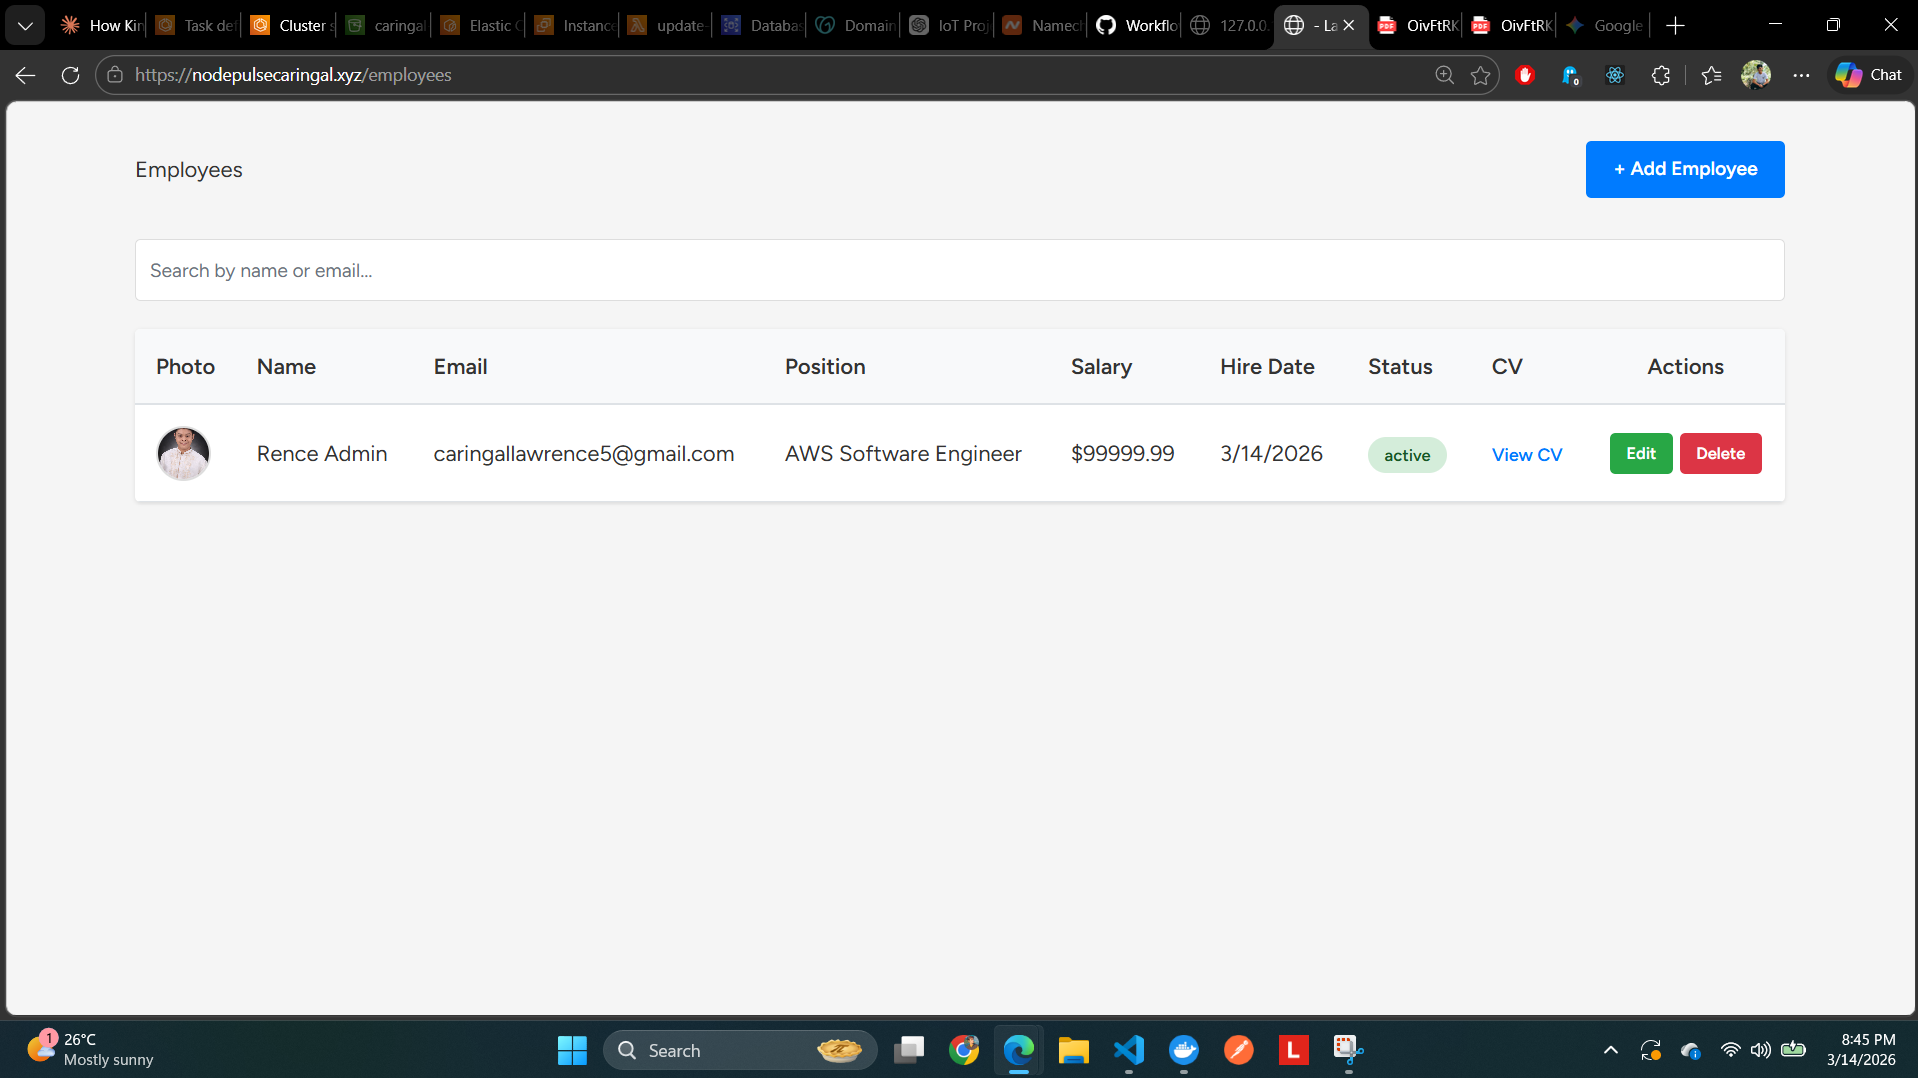
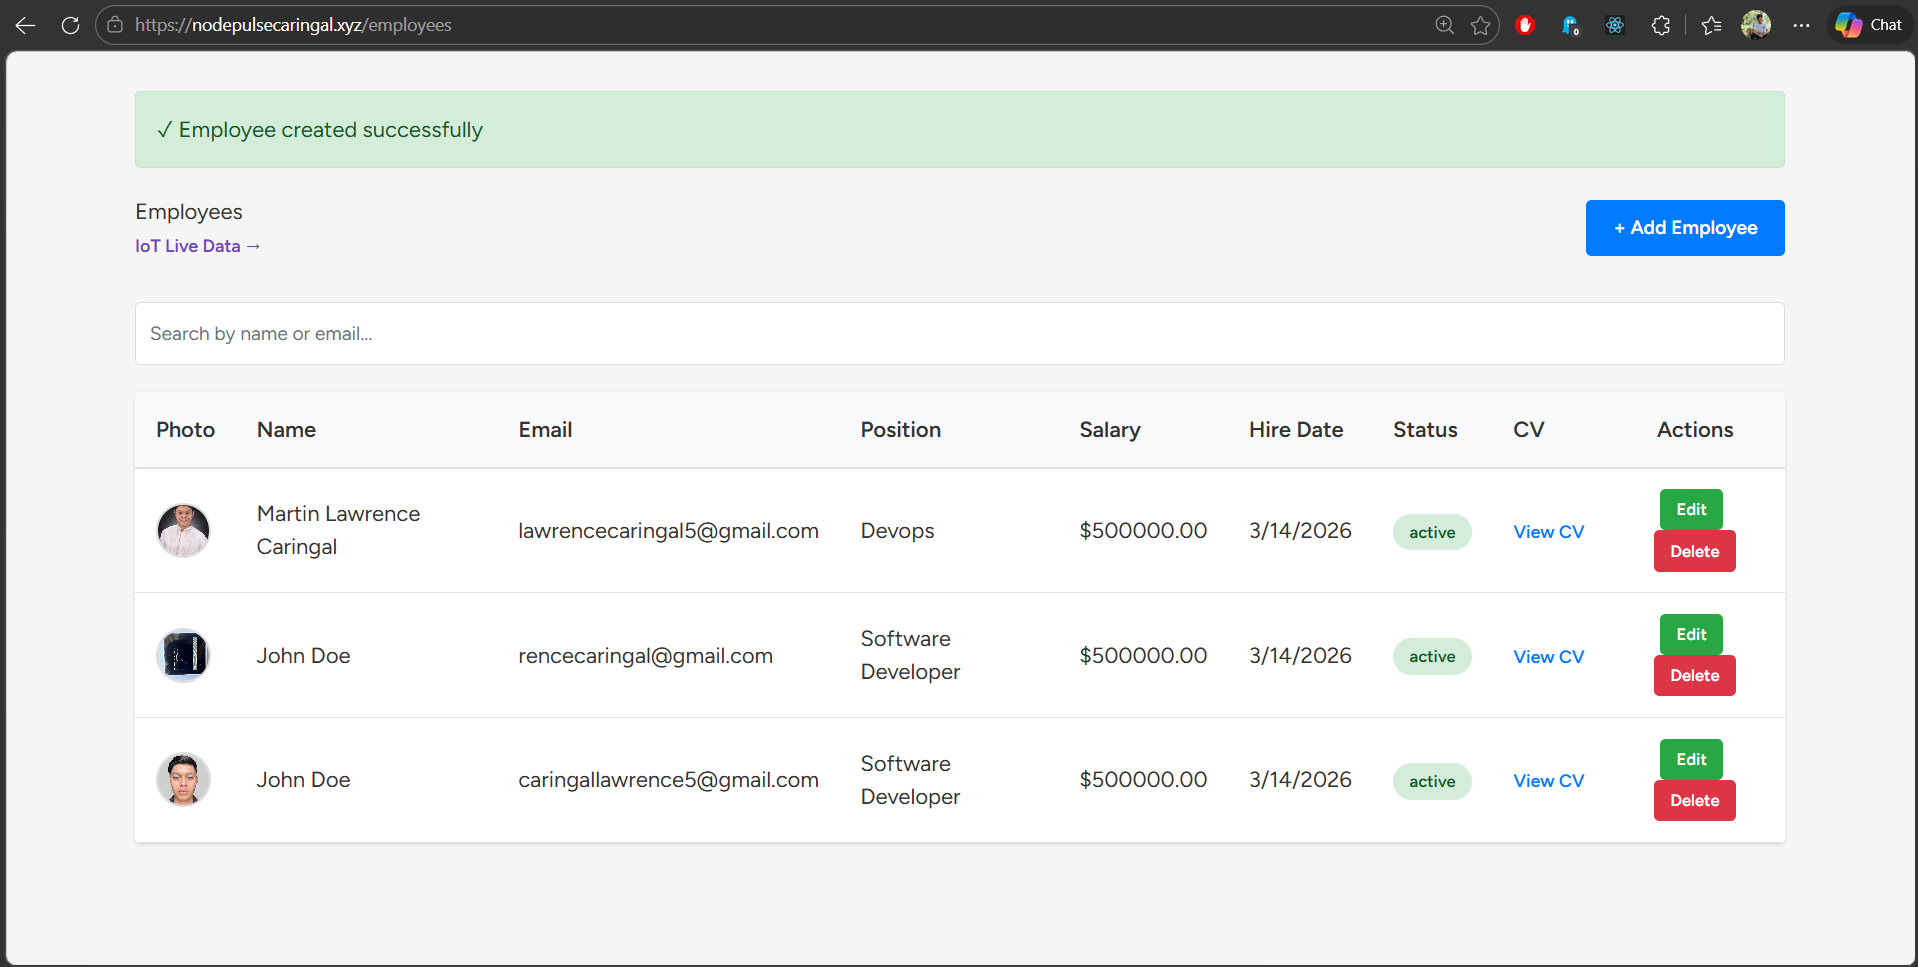
final

diff --git a/README.md b/README.md
@@ -30,6 +30,7 @@ Live at: **https://nodepulsecaringal.xyz**
 | Frontend           | React 18 + Inertia.js (SPA, no full-page reloads)                |
 | Database           | AWS RDS PostgreSQL 15 (t4g.micro, Graviton)                       |
 | File Storage       | AWS S3 Standard-IA + CloudFront CDN (OAC)                         |
+| Security           | AWS WAFv2 — OWASP Top 10, SQLi, Known Bad Inputs, rate limiting   |
 | CSS                | Tailwind CSS                                                      |
 | Containerization   | Docker — multi-stage (Node → Composer → PHP-FPM/Nginx/Supervisor) |
 | CI/CD              | GitHub Actions → ECR → EventBridge → Lambda → ECS                |
@@ -50,6 +51,8 @@ Live at: **https://nodepulsecaringal.xyz**
 - **Status badges** — active / inactive with colour coding
 - **Secure secrets** — APP_KEY and DB credentials injected at runtime from AWS Secrets Manager (never in the image or environment variables plaintext)
 - **IoT Live Data** — M5Stack Core 2 sends button press events via Kinesis → Lambda → PostgreSQL; React dashboard polls every 3s showing device, event type, button, battery, and timestamp
+- **Reset IoT Data** — one-click button to truncate IoT events table for a fresh slate
+- **WAF protection** — AWS WAFv2 on ALB: OWASP Top 10, SQLi, Known Bad Inputs, IP reputation, per-IP rate limiting (2000 req/5min)
 
 ---
 
@@ -64,6 +67,9 @@ Route53 (nodepulsecaringal.xyz)
    ▼
 Application Load Balancer (HTTPS 443, ACM cert)
    │  HTTP → HTTPS redirect
+   ▼
+AWS WAFv2 (Regional)
+   │  OWASP rules, SQLi, rate limit, IP reputation
    ▼
 ECS Service (awsvpc, 1 task)
    │
@@ -149,6 +155,7 @@ React IoT page (polls /iot-events every 3s)
 │   ├── eventbridge.tf       # ECR image push rule → Lambda target
 │   ├── cloudwatch.tf        # Log group + CloudWatch alarms (CPU, memory)
 │   ├── backup.tf            # AWS Backup plan (conditional on enable_backup)
+│   ├── waf.tf               # WAFv2 Web ACL — OWASP, SQLi, rate limit, body size monitor
 │   └── outputs.tf           # ALB DNS, ECR URL, RDS endpoint, CloudFront domain
 ├── hardware/
 │   └── m5stack/m5stack_kinesis.ino   # Arduino sketch: SigV4, Kinesis PutRecord, touchscreen UI
@@ -272,7 +279,8 @@ docker run -p 80:80 --env-file .env employee-crud
 | ECR VPC Endpoints       | `ecr.api`, `ecr.dkr`, `logs` — private subnet image pulls                 |
 | Lambda + EventBridge    | Auto-updates ECS task definition on every ECR push                         |
 | CloudWatch              | ECS log group + CPU/memory alarms                                           |
-| AWS Backup              | Optional RDS backup plan (controlled by `enable_backup`)                   |
+| AWS Backup              | Optional daily RDS backup, 30-day retention (controlled by `enable_backup`) |
+| AWS WAFv2               | Regional Web ACL on ALB — OWASP, SQLi, Known Bad Inputs, rate limiting     |
 
 ### Deploy
 
@@ -317,7 +325,8 @@ terraform apply
 | `desired_count`      | `1`             | Initial ECS task count                                    |
 | `asg_min_size`       | `1`             | Minimum EC2 instances in ASG                              |
 | `asg_max_size`       | `3`             | Maximum EC2 instances in ASG                              |
-| `enable_backup`      | `false`         | Enable AWS Backup for RDS                                 |
+| `enable_backup`      | `false`         | Enable AWS Backup for RDS (daily, 30-day retention)       |
+| `enable_waf`         | `false`         | Enable WAFv2 on ALB (~$5/month base, recommended for prod)|
 | `skip_final_snapshot`| `true`          | Skip RDS final snapshot on destroy (false for prod)       |
 | `s3_force_destroy`   | `true`          | Allow S3 destroy with objects present (false for prod)    |
 
@@ -408,6 +417,20 @@ The ALB terminates SSL and forwards HTTP to the container. `trustProxies` tells 
 **Cause:** Task execution role missing `secretsmanager:GetSecretValue`.
 
 **Fix:** Already applied in `terraform-aws/iam.tf` — inline policy on the execution role scoped to both secrets.
+
+### 403 Forbidden on employee create / file upload
+
+**Cause:** WAFv2 `CrossSiteScripting_BODY` or `SizeRestrictions_BODY` rule firing on multipart form body — WAF misreads binary JPEG/PDF data as XSS patterns or flags body > 8KB.
+
+**Fix:** Already applied in `terraform-aws/waf.tf` — both rules overridden to `count` mode. WAF logs the match in CloudWatch (`aws-waf-logs-<project>`) but does not block. Laravel validation handles actual file type and size enforcement.
+
+To inspect which WAF rule is blocking:
+```bash
+aws logs get-log-events \
+  --log-group-name "aws-waf-logs-<project>" \
+  --log-stream-name "<region>_<project>-waf_0" \
+  --region ap-southeast-2 --limit 20
+```
 
 ### terraform destroy blocked — S3 bucket not empty
 
